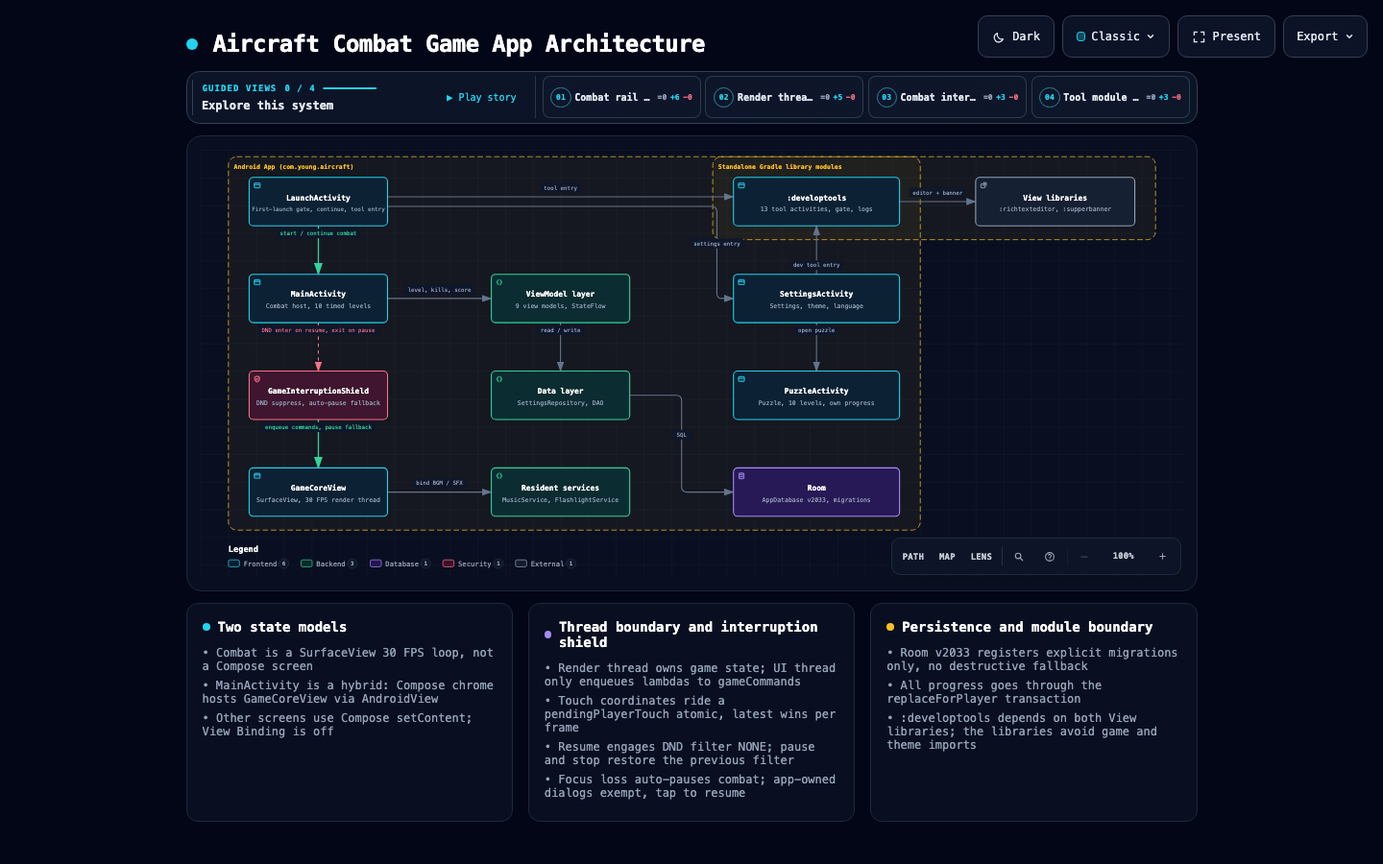
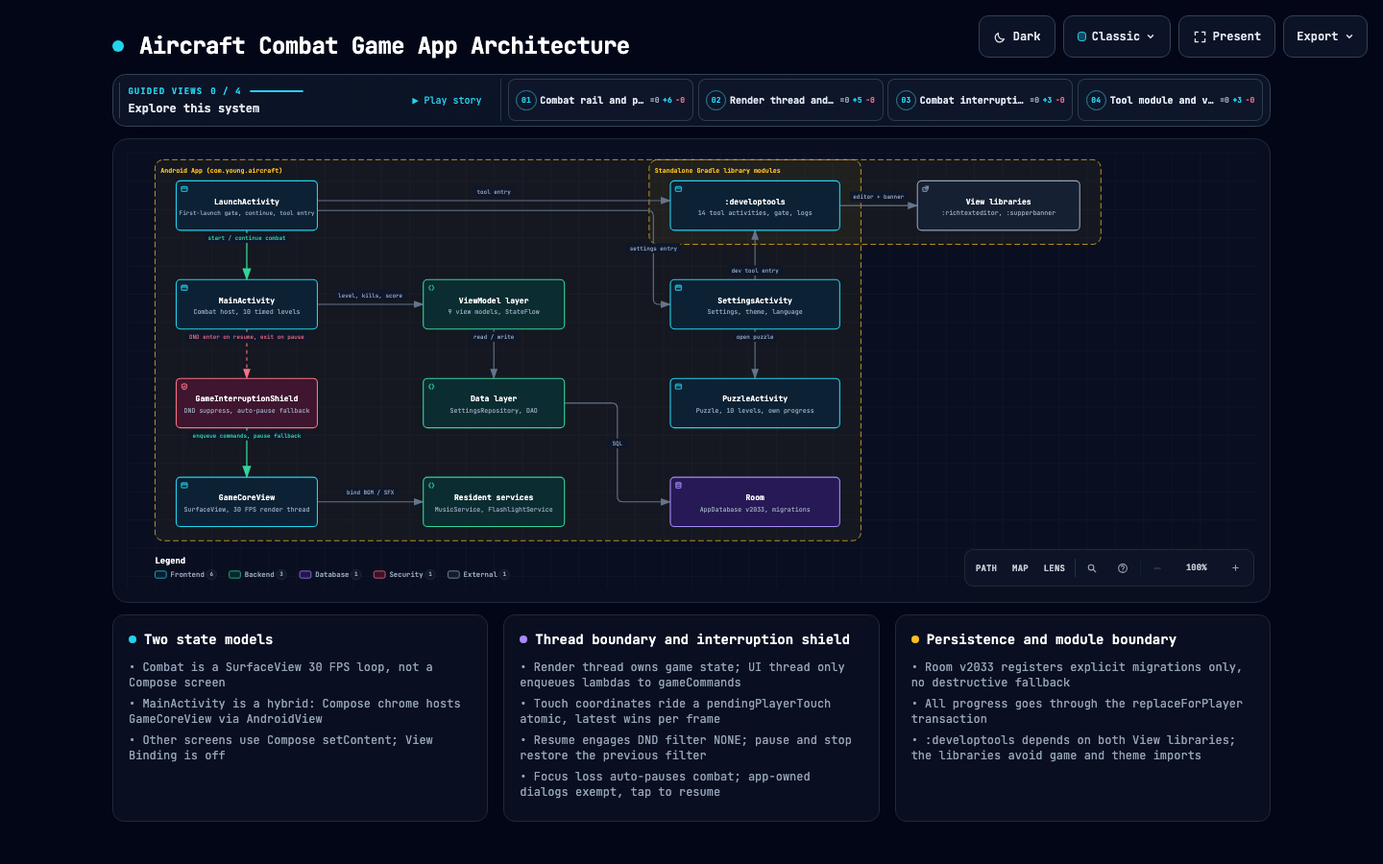
update docs

diff --git a/docs/startup-flow.html b/docs/startup-flow.html
@@ -4883,7 +4883,7 @@
 
     <!-- Main Diagram -->
     <div class="diagram-container" data-detail-level="read">
-      <svg viewBox="0 0 720 776" role="img" aria-labelledby="archify-diagram-title archify-diagram-description" data-preset="classic" data-quality-profile="showcase">
+      <svg viewBox="0 0 1300 780" role="img" aria-labelledby="archify-diagram-title archify-diagram-description" data-preset="classic" data-quality-profile="showcase">
         <title id="archify-diagram-title">Aircraft 启动与首启流程</title>
         <desc id="archify-diagram-description">A workflow diagram generated by Archify.</desc>
         <!-- Definitions -->
@@ -5031,15 +5031,15 @@
           <text data-detail="context" x="625" y="503" class="t-muted" font-size="8" text-anchor="middle">30 FPS 帧循环</text>
         </g>
 
-        <g id="node-rc_fetch" data-node-id="rc_fetch" data-node-label="拉取配置" tabindex="0" role="button" aria-label="Focus 拉取配置, 四参数 + 实时监听, 版本强制更新 › 版本不满足最低要求 › 进程初始化" aria-pressed="false" data-node-kind="cloud" data-node-sublabel="四参数 + 实时监听" data-node-context="版本强制更新 › 版本不满足最低要求 › 进程初始化">
-          <title>拉取配置 · 四参数 + 实时监听 · 版本强制更新 › 版本不满足最低要求 › 进程初始化</title>
+        <g id="node-rc_fetch" data-node-id="rc_fetch" data-node-label="拉取配置" tabindex="0" role="button" aria-label="Focus 拉取配置, 五参数 + 实时监听, 版本强制更新 › 版本不满足最低要求 › 进程初始化" aria-pressed="false" data-node-kind="cloud" data-node-sublabel="五参数 + 实时监听" data-node-context="版本强制更新 › 版本不满足最低要求 › 进程初始化">
+          <title>拉取配置 · 五参数 + 实时监听 · 版本强制更新 › 版本不满足最低要求 › 进程初始化</title>
           <rect x="42" y="589" width="92" height="52" rx="6" class="c-mask"/>
           <rect x="42" y="589" width="92" height="52" rx="6" class="c-cloud" stroke-width="1.5"/>
           <g aria-hidden="true" data-semantic-sigil="cloud" class="semantic-sigil s-cloud" transform="translate(48 595) scale(0.6875)">
             <path d="M4.3 12.5h7.3a2.4 2.4 0 0 0 .2-4.8 4 4 0 0 0-7.5-1.3A3.1 3.1 0 0 0 4.3 12.5Z"/>
           </g>
           <text data-detail-anchor x="88" y="610" class="t-primary" font-size="11" font-weight="600" text-anchor="middle">拉取配置</text>
-          <text data-detail="context" x="88" y="627" class="t-muted" font-size="8" text-anchor="middle">四参数 + 实时监听</text>
+          <text data-detail="context" x="88" y="627" class="t-muted" font-size="8" text-anchor="middle">五参数 + 实时监听</text>
         </g>
 
         <g id="node-version_check" data-node-id="version_check" data-node-label="版本比对" tabindex="0" role="button" aria-label="Focus 版本比对, 解析失败则放行, 版本强制更新 › 版本不满足最低要求 › 首启闸门" aria-pressed="false" data-node-kind="security" data-node-sublabel="解析失败则放行" data-node-context="版本强制更新 › 版本不满足最低要求 › 首启闸门">

diff --git a/docs/aircraft-architecture.html b/docs/aircraft-architecture.html
@@ -4883,7 +4883,7 @@
 
     <!-- Main Diagram -->
     <div class="diagram-container" data-detail-level="read">
-      <svg viewBox="0 0 1420 618" role="img" aria-labelledby="archify-diagram-title archify-diagram-description" data-preset="classic" data-quality-profile="showcase">
+      <svg viewBox="0 0 1600 618" role="img" aria-labelledby="archify-diagram-title archify-diagram-description" data-preset="classic" data-quality-profile="showcase">
         <title id="archify-diagram-title">Aircraft Combat Game App Architecture</title>
         <desc id="archify-diagram-description">A architecture diagram generated by Archify.</desc>
         <!-- Definitions -->
@@ -5019,8 +5019,8 @@
         <text data-detail="context" x="520" y="509" class="t-muted" font-size="9" text-anchor="middle">MusicService, FlashlightService</text>
         </g>
 
-        <g id="node-tools" data-node-id="tools" data-node-label=":developtools" tabindex="0" role="button" aria-label="Focus :developtools, 13 tool activities, gate, logs, Standalone Gradle library modules" aria-pressed="false" data-node-kind="frontend" data-node-sublabel="13 tool activities, gate, logs" data-node-context="Standalone Gradle library modules">
-          <title>:developtools · 13 tool activities, gate, logs · Standalone Gradle library modules</title>
+        <g id="node-tools" data-node-id="tools" data-node-label=":developtools" tabindex="0" role="button" aria-label="Focus :developtools, 14 tool activities, gate, logs, Standalone Gradle library modules" aria-pressed="false" data-node-kind="frontend" data-node-sublabel="14 tool activities, gate, logs" data-node-context="Standalone Gradle library modules">
+          <title>:developtools · 14 tool activities, gate, logs · Standalone Gradle library modules</title>
           <rect x="770" y="40" width="240" height="70" rx="6" class="c-mask"/>
           <rect x="770" y="40" width="240" height="70" rx="6" class="c-frontend" stroke-width="1.5"/>
           <g aria-hidden="true" data-semantic-sigil="frontend" class="semantic-sigil s-frontend" transform="translate(776 46) scale(0.6875)">
@@ -5030,7 +5030,7 @@
             <circle cx="6.3" cy="4.8" r=".7" class="sigil-fill"/>
           </g>
           <text data-detail-anchor x="890" y="73" class="t-primary" font-size="11" font-weight="600" text-anchor="middle">:developtools</text>
-        <text data-detail="context" x="890" y="89" class="t-muted" font-size="9" text-anchor="middle">13 tool activities, gate, logs</text>
+        <text data-detail="context" x="890" y="89" class="t-muted" font-size="9" text-anchor="middle">14 tool activities, gate, logs</text>
         </g>
 
         <g id="node-settings" data-node-id="settings" data-node-label="SettingsActivity" tabindex="0" role="button" aria-label="Focus SettingsActivity, Settings, theme, language, Android App (com.young.aircraft)" aria-pressed="false" data-node-kind="frontend" data-node-sublabel="Settings, theme, language" data-node-context="Android App (com.young.aircraft)">

diff --git a/docs/startup-flow.visual-check.html b/docs/startup-flow.visual-check.html
@@ -9,23 +9,23 @@
 </style>
 </head>
 <body>
-<header><h1>Archify visual-check</h1><p>startup-flow.html · automated containment fail · visual review pending</p></header>
+<header><h1>Archify visual-check</h1><p>startup-flow.html · automated containment pass · visual review pending</p></header>
 <main class="grid">
       <figure>
         <img src="startup-flow.visual-check.1440x900.light.png" alt="light 1440 by 900">
-        <figcaption><strong>LIGHT</strong> · 1440×900 · containment fail</figcaption>
+        <figcaption><strong>LIGHT</strong> · 1440×900 · containment pass</figcaption>
       </figure>
       <figure>
         <img src="startup-flow.visual-check.1440x900.dark.png" alt="dark 1440 by 900">
-        <figcaption><strong>DARK</strong> · 1440×900 · containment fail</figcaption>
+        <figcaption><strong>DARK</strong> · 1440×900 · containment pass</figcaption>
       </figure>
       <figure>
         <img src="startup-flow.visual-check.2048x1320.light.png" alt="light 2048 by 1320">
-        <figcaption><strong>LIGHT</strong> · 2048×1320 · containment fail</figcaption>
+        <figcaption><strong>LIGHT</strong> · 2048×1320 · containment pass</figcaption>
       </figure>
       <figure>
         <img src="startup-flow.visual-check.2048x1320.dark.png" alt="dark 2048 by 1320">
-        <figcaption><strong>DARK</strong> · 2048×1320 · containment fail</figcaption>
+        <figcaption><strong>DARK</strong> · 2048×1320 · containment pass</figcaption>
       </figure>
 </main>
 </body>

diff --git a/docs/boss-combat-workflow.html b/docs/boss-combat-workflow.html
@@ -5302,7 +5302,7 @@
           <li>&bull; Spread Shot 画红色圆球，单发仍画导弹贴图</li>
           <li>&bull; 出屏判定同时检查左右，斜飞弹不会滞留</li>
           <li>&bull; 圆心沿用 missileSize/2，命中判定无需改动</li>
-          <li>&bull; SPREAD_HP_RATIO / _COUNT / _ANGLE / _ORB_RADIUS_RATIO 在 BossEnemy companion</li>
+          <li>&bull; SPREAD_HP_RATIO / SPREAD_SHOT_COUNT / SPREAD_SHOT_ANGLE / SPREAD_ORB_RADIUS_RATIO 在 BossEnemy companion</li>
         </ul>
       </div>
     </div>

diff --git a/CLAUDE.md b/CLAUDE.md
@@ -16,7 +16,7 @@ Aircraft is a Kotlin Android vertical-scrolling shooter. Four Gradle modules: `:
 - [docs/rich-text-editor-aar-usage.md](docs/rich-text-editor-aar-usage.md): editor integration and AAR usage.
 - [docs/supper-banner-aar-usage.md](docs/supper-banner-aar-usage.md): banner carousel integration and AAR publishing.
 - [docs/puzzle-game-redesign-plan.md](docs/puzzle-game-redesign-plan.md): working plan explaining *why* the puzzle scoring code looks the way it does. Read it before changing that area.
-- `docs/` also holds generated architecture artifacts: `aircraft-architecture.*`, `boss-combat-workflow.*`, and `pdf-reader-dataflow.*` at the top level, plus `aircraft-code-map.*` and `supperbanner-module.*` under `docs/diagrams/`. Each is a `.json` source plus a rendered `.html` and `.visual-check.*` screenshots. All 44 files are committed but machine-generated; edit the `.json`, not the `.html`.
+- `docs/` also holds generated architecture artifacts: `aircraft-architecture.*`, `boss-combat-workflow.*`, `pdf-reader-dataflow.*`, `startup-flow.*`, `release-process.*`, `remote-update-chain.*`, `remote-update-enforcement.*`, and `about-manual-update-check.*` at the top level, plus `aircraft-code-map.*` and `supperbanner-module.*` under `docs/diagrams/`. Each is a `.json` source plus a rendered `.html` and `.visual-check.*` screenshots. They are committed but machine-generated; edit the `.json`, not the `.html`.
 - **Archify (and any diagram-generation skill) output must be written into `docs/`** — set `meta.output` to a `docs/…` path (or pass it on the command line) and keep the `.json` source, rendered `.html`, and `.visual-check.*` sidecars together there. Never leave generated diagrams at the repository root.
 - [.github/copilot-instructions.md](.github/copilot-instructions.md): additional repository guidance, **several claims of which are wrong** — see the stale-documentation list below. No Cursor rules exist.
 - `AGENTS.md` 是面向 OpenCode 的精简版（本文件是完整手册）；改精简规则只改 `AGENTS.md`，改完整事实同步两份。
@@ -25,9 +25,9 @@ Aircraft is a Kotlin Android vertical-scrolling shooter. Four Gradle modules: `:
 
 Verify against code before propagating any of these:
 
-- Copilot says the repo has two modules; there are **three** (`:supperbanner` was extracted).
+- Copilot says the repo has two modules; there are **four** (`:supperbanner` and `:developtools` were extracted).
 - README/Copilot describe puzzle gates interleaved between combat levels; `MainActivity.onLevelComplete` saves the next level then calls `coreView.advanceToNextLevel()` directly (`MainActivity.kt:201`). `PuzzleActivity` is a separate Settings entry with its own ten-level progression.
-- Copilot says Room uses `fallbackToDestructiveMigration(true)`; `DatabaseProvider` registers four explicit migrations and **no** fallback, so a missing migration crashes rather than wiping saves.
+- Copilot says Room uses `fallbackToDestructiveMigration(true)`; `DatabaseProvider` registers six explicit migrations and **no** fallback, so a missing migration crashes rather than wiping saves.
 - Copilot says many screens use ViewBinding/XML and lists only `values/` + `values-zh/` locales. Both are false — see Conventions below.
 - Copilot frames `GameStateManager` as *the* cross-screen bus carrying pause/game-over/win; in practice only low-memory arrives through that flow. Pause, game-over, level-complete, and win use direct `GameCoreView` callbacks.
 - `gui/GameHudScreen.kt` holds the **live** Compose HUD: `MainActivity.setContent` stacks `GameHudOverlay(state = hudState, …)` in a `Box` over `AndroidView(factory = { coreView })` (`MainActivity.kt:153`). It owns pause/resume/quit — do not delete or bypass it. The Canvas HUD is **not** replaced: `GameCoreView.onDraw` still calls `drawHeader(canvas)` (`ui/DrawHeader.kt` via `ui/GameHudFormatter.kt`), so the two coexist deliberately.
@@ -69,7 +69,7 @@ Scope `--tests` to a **module** task (`:app:testDebugUnitTest`), not the root `t
 - The app enables Compose and BuildConfig. **View Binding is disabled** (removed in `a6c3b6b`; no binding classes exist) and Data Binding is not used.
 - Release enables R8 minification and resource shrinking via `app/proguard-rules.pro` (trimmed per the R8 config analyzer report in 1.5.3: only the persisted-name enums `values()`/`valueOf()`, Crashlytics `SourceFile,LineNumberTable` attributes, and OkHttp/Firebase `-dontwarn` lines remain — no Room/component/singleton keeps). Signing loads root `keystore.properties` when present; it is untracked. `settings.gradle.kts` sets `FAIL_ON_PROJECT_REPOS`, so a new repository must go in the settings file, not a module.
 - Firebase Analytics, Remote Config, and Crashlytics are configured in `app/build.gradle.kts`; `app/google-services.json` supplies the Firebase configuration. See "Remote Config and Forced Updates" below before touching Crashlytics — its collection is off by default.
-- **Debug-only code is a source-set split, not a runtime flag.** `utils/DebugTools.kt` exists twice inside `:developtools`: `developtools/src/debug/` (`isEnabled = true`, `log`/`enableWebViewDebugging` live) and `developtools/src/release/` (`isEnabled = false`, all methods no-op). `SettingsViewModel` maps `DebugTools.isEnabled` into `SettingsUiState.showDevelopSettings`, the *only* gate for the Settings rows; each gated Activity then re-checks `DebugTools.isEnabled` in `onCreate` and calls `finish()`. Adding a debug screen means touching both `DebugTools` variants plus both gates — otherwise a release build crashes or silently shows dev UI. Keep the two variants' signatures in sync: `isEnabled` is a `var` in debug and a `val` in release, so a `main` source that assigns to it compiles in debug and fails in release.
+- **Debug-only code is a source-set split, not a runtime flag.** `utils/DebugTools.kt` exists twice inside `:developtools`: `developtools/src/debug/` (`isEnabled = true`, `log`/`enableWebViewDebugging` live) and `developtools/src/release/` (`isEnabled = false`, all methods no-op). There are **two** gates, both required. (1) `SettingsViewModel` maps `DebugTools.isEnabled || repository.isDeveloperOptionsUnlocked()` into `SettingsUiState.showDevelopSettings`, which decides whether the Settings rows render at all. (2) Each gated Activity re-checks `DeveloperMode.isEnabled(this)` (`developtools/.../utils/DeveloperMode.kt` = `DebugTools.isEnabled || DevPrefs.isDeveloperOptionsUnlocked()`) in `onCreate` and calls `finish()`. A release build can therefore still reach these screens by tapping the About Aircraft version badge `DeveloperMode.TAPS_TO_UNLOCK` (8) times, which persists the unlock flag. Adding a debug screen means touching both `DebugTools` variants plus both gates — otherwise a release build crashes or silently shows dev UI. Keep the two variants' signatures in sync: `isEnabled` is a `var` in debug and a `val` in release, so a `main` source that assigns to it compiles in debug and fails in release.
 
 ## Architecture
 
@@ -79,7 +79,7 @@ Scope `--tests` to a **module** task (`:app:testDebugUnitTest`), not the root `t
 
 **Activity/UI layer — Compose + Material3.** Every `gui/` Activity calls `setContent`; there are no ViewBinding hosts. `viewmodel/` exposes StateFlow/LiveData plus SharedFlow one-shot events where needed. `data/SettingsRepository` wraps SharedPreferences; `providers/DatabaseProvider` supplies the Room database. `GameViewModel` handles persistence and scoring, never the render loop.
 
-**Nearly every screen extends `gui/BaseAircraftActivity`** — every `:app` screen except `MainActivity` and `MandatoryUpdateActivity` (a `ComponentActivity`, see below); `:developtools` carries its own same-shaped copy for its 13 tool screens. It is `final override fun onCreate`: call `initializeViewModel` first, then `initializeUI` only `if (!isFinishing)`. That guard exists because some `initializeViewModel` implementations finish the Activity (the `DebugTools` self-gates), and building UI afterwards would operate on a dead window. Follow the two-method shape for new screens rather than inventing a third base class.
+**Nearly every screen extends `gui/BaseAircraftActivity`** — every `:app` screen except `MainActivity` and `MandatoryUpdateActivity` (a `ComponentActivity`, see below); `:developtools` carries its own same-shaped copy for its 14 tool screens. It is `final override fun onCreate`: call `initializeViewModel` first, then `initializeUI` only `if (!isFinishing)`. That guard exists because some `initializeViewModel` implementations finish the Activity (the `DebugTools` self-gates), and building UI afterwards would operate on a dead window. Follow the two-method shape for new screens rather than inventing a third base class.
 
 `PuzzleActivity` is the fullest example of the newer split: the image-feed request, disk cache, and load state live in `viewmodel/PuzzleImageViewModel`, while the Activity only reads launch args, saves progress, and owns the Compose board. Board/piece/undo state uses `rememberSaveable` with a Saver so rotation restores the in-progress board.
 
@@ -107,7 +107,7 @@ Engine state is confined to the render thread; other threads never mutate game o
 
 ### Theme and Transient UI
 
-`SettingsRepository` persists five theme identifiers (green/blue/purple/yellow/red). `ui/theme/AircraftTheme.kt` maps them through `themeAccent` / `aircraftColorScheme` and listens to preference changes for live Compose updates. `AccentGreen` and `DividerGreen` are composable getters despite their legacy names: read them in composable scope, never inside a Canvas draw callback or an ordinary Activity method. Native UI resolves the shared scheme from the repository.
+`SettingsRepository` persists six theme identifiers (`THEME_IDS` = green/blue/purple/yellow/red plus `THEME_DYNAMIC`, which pulls the Material You primary from the wallpaper). `ui/theme/AircraftTheme.kt` maps them through `themeAccent` / `aircraftColorScheme` and listens to preference changes for live Compose updates. `AccentGreen` and `DividerGreen` are composable getters despite their legacy names: read them in composable scope, never inside a Canvas draw callback or an ordinary Activity method. Native UI resolves the shared scheme from the repository.
 
 `StarFieldView` has its own preference listener and renders theme-specific glyph particles on the launch/onboarding/privacy screens. It is separate from `DrawBackground` and the combat loop; a UI theme change must not replace combat backgrounds.
 
@@ -125,7 +125,7 @@ Combat is ten timed levels with rising kill targets and a boss after each target
 
 **"Continue" is a level checkpoint, not a scene snapshot.** It restores the saved combat level, cumulative kills, and jet — not current health, remaining time, or on-screen objects. The level restarts from scratch. Don't add snapshot persistence unless the product asks for in-place resume.
 
-`SettingsActivity` navigates through an 11-value `SettingsDestination` enum in `SettingsScreen.kt` (GAME_SETTINGS, DEVICE_INFO, QR_CODE_TOOL, FLASHLIGHT, PUZZLE, LANGUAGE, ABOUT_AIRCRAFT, ABOUT_ME, PRIVACY_POLICY, DEVELOP_SETTINGS, ASSISTANT_TOOLS) mapped to Activity classes in `navigateTo`. The last two are debug-only rows; add a new Settings entry in all three places (enum, `navigateTo` `when`, the `SettingsScreen` row).
+`SettingsActivity` navigates through a 12-value `SettingsDestination` enum in `SettingsScreen.kt` (GAME_SETTINGS, DEVICE_INFO, QR_CODE_TOOL, FLASHLIGHT, PUZZLE, LANGUAGE, ABOUT_AIRCRAFT, ABOUT_ME, PRIVACY_POLICY, DATA_AND_PRIVACY, DEVELOP_SETTINGS, ASSISTANT_TOOLS) mapped to Activity classes in `navigateTo`. `DEVELOP_SETTINGS` and `ASSISTANT_TOOLS` are the debug-gated rows (rendered only when `state.showDevelopSettings`); `DATA_AND_PRIVACY` maps to `DataPrivacyActivity` (withdraw consent / delete on-device data) and is always shown. Add a new Settings entry in all three places (enum, `navigateTo` `when`, the `SettingsScreen` row).
 
 `HistoryActivity` is the leaderboard — a Compose screen (not a fragment/RecyclerView flow) reading `dao.getAllByScoreDesc()`. Player names resolve through `utils/HallOfHeroesNameUtils.kt`: a blank name falls back to the caller's `anonymousLabel`, and failing that to `truncatePlayerId(playerId)` (first 6 chars plus an ellipsis). Both that util and the DAO ordering have unit tests, so the anonymous-player path is worth routing through the util rather than inlining a fallback at a new call site.
 
@@ -135,7 +135,7 @@ Combat is ten timed levels with rising kill targets and a boss after each target
 
 ### Debug-Only Screens
 
-`DevelopSettingsActivity` (in `:developtools`) is the debug hub (crash tooling, invincibility toggle, banner effect lab, and launchers for `RichTextEditorActivity` / `CameraScanActivity` / `PdfReaderActivity` / `ShowImageDetailsActivity`). `AndroidDevAssistantToolsActivity` is a sibling hub under the same `showDevelopSettings` gate, reading device facts through **native APIs only** — `Os.uname()`, `WebView.getCurrentWebViewPackage()` (API 26+), `/proc/version` — deliberately *without* androidx.webkit or any DI. Its per-module facts are pure internal top-level functions (`readKernelInfo()`, `readBrowserEngineInfo(context)`) returning `internal data class`es, so they are unit-testable without an Activity. It hosts **four** modules in `ASSISTANT_MODULES` (`MODULE_SYSTEM_INFO`, `MODULE_QUICK_SETTINGS`, `MODULE_APP_BROWSER`, `MODULE_CONTACTS`) plus the app-logs toggle; adding one means touching the constant, the `ASSISTANT_MODULES` entry, and `openModule`'s `when`. Module toggles live in their own `SharedPreferences` (`ASSISTANT_PREFS`), not `SettingsRepository`, and a disabled module hides the row without preventing a direct Intent. It uses an `ACTION_BAR`-free Compose shell with literal debug-only colors — a dev tool, so it is exempt from the tactical-UI palette rule below.
+`DevelopSettingsActivity` (in `:developtools`) is the debug hub (crash tooling, invincibility toggle, notification test, banner effect lab, and launchers for `RichTextEditorActivity` / `CameraScanActivity` / `ApiDebugToolActivity` / `PdfReaderActivity` / `ShowImageDetailsActivity` / `QRCodeToolActivity`). `AndroidDevAssistantToolsActivity` is a sibling hub under the same `showDevelopSettings` gate, reading device facts through **native APIs only** — `Os.uname()`, `WebView.getCurrentWebViewPackage()` (API 26+), `/proc/version` — deliberately *without* androidx.webkit or any DI. Its per-module facts are pure internal top-level functions (`readKernelInfo()`, `readBrowserEngineInfo(context)`) returning `internal data class`es, so they are unit-testable without an Activity. It hosts **seven** modules in `ASSISTANT_MODULES` (`MODULE_SYSTEM_INFO`, `MODULE_QUICK_SETTINGS`, `MODULE_APP_BROWSER`, `MODULE_CONTACTS`, `MODULE_ACTIVITY_MONITOR`, `MODULE_KERNEL_INFO`, `MODULE_BROWSER_ENGINE`) plus the app-logs toggle; adding one means touching the constant, the `ASSISTANT_MODULES` entry, and `openModule`'s `when`. Module toggles live in their own `SharedPreferences` (`ASSISTANT_PREFS`), not `SettingsRepository`, and a disabled module hides the row without preventing a direct Intent. It uses an `ACTION_BAR`-free Compose shell with literal debug-only colors — a dev tool, so it is exempt from the tactical-UI palette rule below.
 
 ### Contacts (debug-only)
 
@@ -151,7 +151,7 @@ Combat is ten timed levels with rising kill targets and a boss after each target
 
 ### App Logging
 
-`AppLog` is a **runtime kill-switch for `android.util.Log`**, not a logging framework: no file sink, no rotation, no Timber. Use `AppLog` for all application logging; direct `android.util.Log` access is allowed only inside `utils/AppLog.kt`. The `checkAppLogUsage` Gradle task enforces this and is wired as a dependency of every `lint*` task; it scans `src/main` only (not the debug/release source sets) and fails on any `import android.util.Log` or `Log.` reference.
+`AppLog` is a **runtime kill-switch for `android.util.Log`**, not a logging framework: no file sink, no rotation, no Timber. Use `AppLog` for all application logging; direct `android.util.Log` access is allowed only inside `utils/AppLog.kt`. The `checkAppLogUsage` Gradle task enforces this and is wired as a dependency of every `lint*` task; it scans `src/main` only (not the debug/release source sets) and fails on any `import android.util.Log` or `Log.` reference. `:developtools` mirrors this with `utils/DevLog.kt` and its own `checkDevLogUsage` task (same wiring, via `registerLogCheck` in `build-logic`).
 
 Its `d(tag) { … }` lambda skips message construction and interpolation while logging is disabled, so the hot game loop pays one volatile read. `@Volatile` is load-bearing because the render thread reads it.
 
@@ -172,15 +172,17 @@ Its `d(tag) { … }` lambda skips message construction and interpolation while l
 
 ### Networking
 
-There is **no Retrofit usage** despite the declared dependency — network calls are direct OkHttp requests inside `BannerDetailsViewModel`, `ShowImageDetailsViewModel`, and `PuzzleActivity`. The Bing wallpaper (peapix) feed in `PuzzleActivity` is parsed by **regex** in `AircraftConstants`, not a JSON parser. There is no DI framework and no service layer; follow that pattern unless asked otherwise.
+There is **no Retrofit usage** despite the declared dependency — network calls are direct OkHttp requests inside `BannerDetailsViewModel`, `ShowImageDetailsViewModel`, `PuzzleImageViewModel`, and `ApiDebugRepository` (`:developtools`). The Bing wallpaper (peapix) feed is parsed by **regex** in `AircraftConstants.Urls`, not a JSON parser. There is no DI framework and no service layer; follow that pattern unless asked otherwise.
+
+`:developtools` keeps Room out of its own module: history persistence goes through the `ApiHistoryStore` interface (`developtools/.../repository/ApiHistoryStore.kt`) with an in-memory fallback, and `:app` supplies the Room-backed `RoomApiHistoryStore` via `DevTools.historyStoreProvider`.
 
 ### Remote Config and Forced Updates
 
 `common/AircraftRemoteConfig.kt` is a plain `object` (the app's established no-DI pattern) wrapping `FirebaseRemoteConfig` with a typed accessor per parameter. `AircraftApplication.onCreate` calls `initialize()` — it is `@Synchronized` and one-shot, sets `minimumFetchIntervalInSeconds` to 0 in debug / 1h in release, then chains `setDefaultsAsync` → initial `fetchAndActivate`, and separately registers a real-time `addOnConfigUpdateListener`. Defaults are a hardcoded `defaults` map, so a fetch failure degrades to bundled values rather than throwing; a malformed version string makes `compareVersions` return null and the check **fails open** (treated as "no update needed").
 
-Five parameters: `Aircraft2026` (a JSON blob parsed into `RemoteTokenConfig`), `minimum_version`, `latest_version`, `update_url`, `AppIcon` (launcher variant 1..5, invalid falls back to 1). The seven `remote_update_*` strings were added to all four locales; new ones must follow suit.
+Five parameters: `Aircraft2026` (a JSON blob parsed into `RemoteTokenConfig`), `minimum_version`, `latest_version`, `update_url`, `AppIcon` (launcher variant 1..5, invalid falls back to 1). The ten `remote_update_*` strings were added to all four locales; new ones must follow suit.
 
-- **Repo-JSON fallback.** `app-update.json` at the repo root (`minimum_version`/`latest_version`/`update_url`, same key names, plus `app_icon` mirroring the `AppIcon` parameter and top-level `welcomeMessage`/`showWelcome` mirroring the token-config welcome gating) is the fallback whenever Firebase holds no *remote* value for a key — fetch failed, unreachable, or key absent. `common/RepoUpdateConfig.kt` fetches it at startup via jsDelivr (`cdn.jsdelivr.net/gh/…@main/…`, ICP-filed) with a `raw.githubusercontent.com` fallback; `RepoUpdateConfigStore` effective getters return the Firebase value when its source is `VALUE_SOURCE_REMOTE`, else the repo value, else the Firebase default. The enforce/optional-update/`openUpdatePage` call sites all read through it, and the launcher icon plus welcome dialog now also read through it (`getAppIconVariant()` validated by the shared `parseAppIconVariant`; welcome falls back to the repo message only when the Firebase token does not enable one). The file is **generated, not hand-edited**: `:app:generateRepoUpdateConfig` writes it from `versionName` (plus `-PminimumVersion=` override, default `1.4.1`, `-PappIcon=` default `3`, `-PwelcomeMessage=`/`-PshowWelcome=` defaults) and runs automatically before every `assembleRelease`/`bundleRelease`. After a release build, commit the regenerated file to `main` (CDN serves `@main`, not `develop`) and allow CDN cache lag before expecting new values on device.
+- **Repo-JSON fallback.** `app-update.json` at the repo root (`minimum_version`/`latest_version`/`update_url`, same key names, plus `app_icon` mirroring the `AppIcon` parameter and top-level `welcomeMessage`/`showWelcome` mirroring the token-config welcome gating) is the fallback whenever Firebase holds no *remote* value for a key — fetch failed, unreachable, or key absent. `common/RepoUpdateConfig.kt` fetches it at startup via jsDelivr (`cdn.jsdelivr.net/gh/…@main/…`, ICP-filed) with a `raw.githubusercontent.com` fallback; `RepoUpdateConfigStore` effective getters return the Firebase value when its source is `VALUE_SOURCE_REMOTE`, else the repo value, else the Firebase default. The enforce/optional-update/`openUpdatePage` call sites all read through it, and the launcher icon plus welcome dialog now also read through it (`getAppIconVariant()` validated by the shared `parseAppIconVariant`; welcome falls back to the repo message only when the Firebase token does not enable one). The file is **generated, not hand-edited**: `:app:generateRepoUpdateConfig` writes it from `versionName` (plus `-PminimumVersion=` override, default `1.4.1`, `-PappIcon=` default `2`, `-PwelcomeMessage=`/`-PshowWelcome=` defaults) and runs automatically before every `assembleRelease`/`bundleRelease`. After a release build, commit the regenerated file to `main` (CDN serves `@main`, not `develop`) and allow CDN cache lag before expecting new values on device.
 - **Version numbering is decimal with segment rollover.** `versionCode` increments by exactly 1 per release. `versionName` bumps the patch segment normally (`1.4.3` → `1.4.4`); when the patch would exceed 9 it rolls into the minor segment instead (`1.4.9` → `1.5.0`); when the minor likewise rolls past 9 it advances the major segment (`1.9.9` → `2.0.0`), and so on. There is no "1.4.10" — after `x.y.9` comes `x.(y+1).0`.
 
 - **Crashlytics collection is remote-gated.** The manifest sets `firebase_crashlytics_collection_enabled=false`, and `updateCrashlyticsCollection()` re-enables it only when `Aircraft2026.enable == true`. So a build without live Remote Config collects no crashes — do not "fix" a missing crash report by removing the meta-data.
@@ -190,7 +192,7 @@ Five parameters: `Aircraft2026` (a JSON blob parsed into `RemoteTokenConfig`), `
 
 ### Persistence and Scoring
 
-`DatabaseProvider` is a double-checked singleton building `aircraft_game.db` with `AppDatabase` (version 2031), registering `MIGRATION_2027_2028` → `2028_2029` → `2029_2030` → `2030_2031`. **There is no destructive-migration fallback**, so a schema change without a registered migration crashes on upgrade rather than silently wiping saves. `setDatabase()` exists for tests.
+`DatabaseProvider` (`app/.../providers/DatabaseProvider.kt`) is a double-checked singleton building `aircraft_game.db` with `AppDatabase` (version 2033), registering six explicit migrations: `2027_2028` → `2028_2029` → `2029_2030` → `2030_2031` → `2031_2032` → `2032_2033`. `2031_2032` creates the `api_request_history` table; `2032_2033` adds its `responseHeaders` column. **There is no destructive-migration fallback**, so a schema change without a registered migration crashes on upgrade rather than silently wiping saves. `setDatabase()` exists for tests.
 
 `PlayerGameData` / `PlayerGameDataDao` represent `player_game_data`: combat and puzzle levels/scores, mode, total kills, player name, jet resource/index, difficulty. `GameViewModel` identifies the player by an install ID from `SettingsRepository`. Combat score is `totalKills * 100`.
 
@@ -215,7 +217,7 @@ Page transitions are `ViewPager2.PageTransformer` instances built by the interna
 - Match the tactical UI: dark background `#0F1118`, header `#161A26`, the selected theme accent (green `#00FF88` by default), monospace typography, and a 52dp header. Use the shared `AircraftTheme` and its color scheme instead of hardcoding decorative green, and preserve each screen's existing layout.
 - Solid-background utility Activities use `Theme.Aircraft.Common` in the manifest; only `MainActivity` uses `TransparentMaterialTheme`. The `<application>` tag carries `TransparentTheme`. Preserve each screen's inset handling — Compose screens use `safeDrawingPadding` / `statusBarsPadding` / `navigationBarsPadding`, or Scaffold `contentWindowInsets` (the Settings header uses `statusBarsPadding`). Do not double-apply insets.
 - On tablets and foldables, Compose screens cap their content column with `Modifier.maxContentWidth()` (`ui/WideScreen.kt`, 640dp) — the counterpart of `@dimen/content_max_width` in `values-sw600dp/` (`-1px` in the default bucket). Use the modifier rather than inventing another width cap.
-- There are **four** locales: `values/`, `values-zh/`, `values-zh-rTW/`, `values-zh-rHK/`. `StringResourceTest` scans *every* `values-*` dir that has a `strings.xml`, requires the full default key set in each, **and** fails on any string defined in `values/` but never referenced from `main` (`R.string.*`, XML `@string/`, or the manifest) minus an 8-entry Firebase whitelist. It currently passes with 0 unused, so it is a guard rail rather than a standing failure — but deleting the last usage of a string breaks the build, which is the intended behavior. Adding a string means adding it in all four. Use `stringResource` / `getString` / `@string/`, and remove orphans after refactoring.
+- There are **four** locales: `values/`, `values-zh/`, `values-zh-rTW/`, `values-zh-rHK/`. Each of `:app` and `:developtools` has its own `StringResourceTest` (`:richtexteditor` and `:supperbanner` do not). Both scan *every* `values-*` dir that has a `strings.xml`, require the full default key set in each, **and** fail on any string defined in `values/` but never referenced from `main` (`R.string.*`, XML `@string/`, or the manifest) minus an 8-entry Firebase whitelist (the `:app` test only). It currently passes with 0 unused, so it is a guard rail rather than a standing failure — but deleting the last usage of a string breaks the build, which is the intended behavior. Adding a string means adding it in all four. Use `stringResource` / `getString` / `@string/`, and remove orphans after refactoring.
 - `values-night/`, `values-sw600dp/`, and `values-sw1240dp/` exist but hold **no `strings.xml`** — only `dimen`/`integer` resources, so `StringResourceTest` ignores them. The four locales above are the only ones needing string parity.
 - In-app language switching goes through `AppCompatDelegate.setApplicationLocales` in `LanguageSettingsActivity`. There is **no `res/xml/locales_config.xml`**; persistence below API 33 comes from the manifest declaring `AppLocalesMetadataHolderService` with an `autoStoreLocales` meta-data value of `true`.
 
